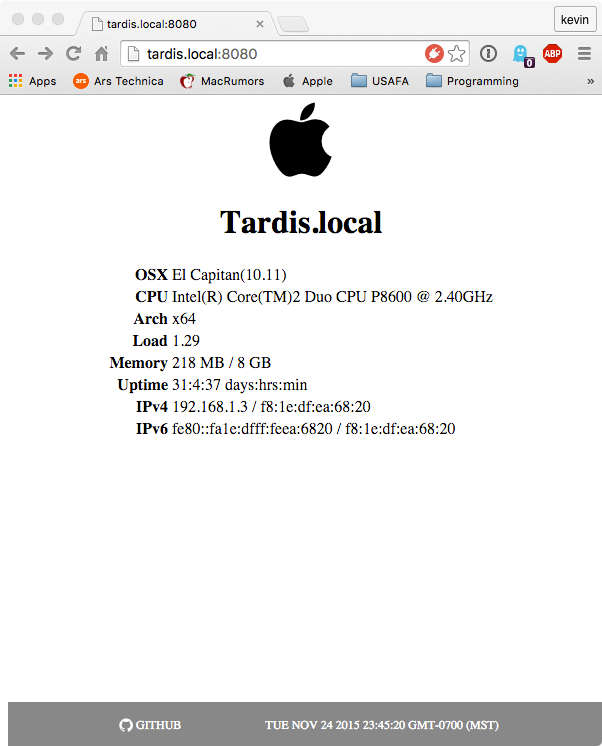
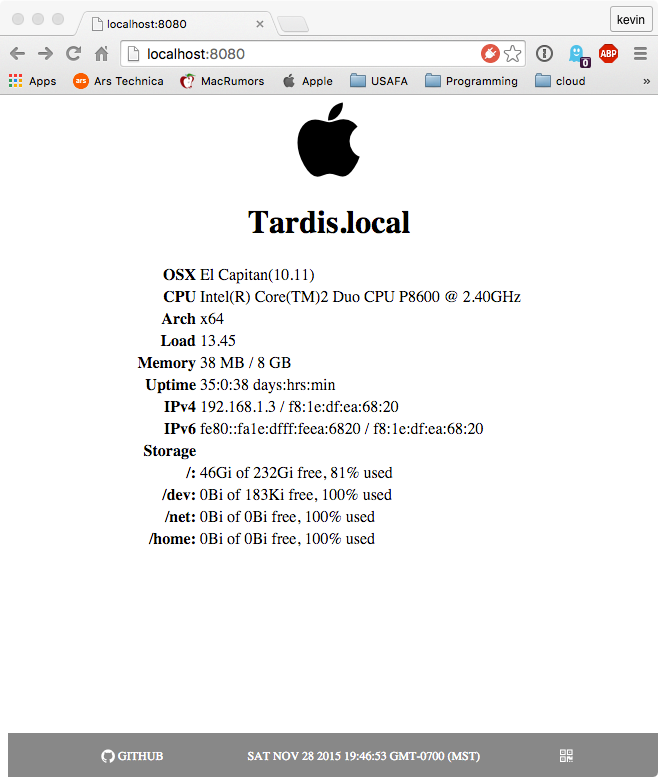
major update
rt, qr, storage add

diff --git a/bin/server.js b/bin/server.js
@@ -1,21 +1,18 @@
 #!/usr/bin/env node
 
-var debug = require('debug')('kevin:mon')
-//var chalk = require('chalk');
-var program = require('commander');
-var os = require('os');
-var http = require('http');                     // http-server
+var debug = require('debug')('kevin:mon')  // debugging
+//var chalk = require('chalk');            // colors
+var program = require('commander');        // CLI access
+var os = require('os');                    // OS access
+var http = require('http');                // http-server
 
-var sysinfo = require('../lib/sysinfo.js');
-var makePage = require('../lib/page.js');
-var realtime = require('../lib/realtime.js');
+var sysinfo = require('../lib/sysinfo.js');   // get system info
+var makePage = require('../lib/page.js');     // create web page
+var realtime = require('../lib/realtime.js'); // update web page via socket.io
+var qr = require('../lib/qr.js');             // draw QR image w/ network info
 
-// var spawn = require('child_process').exec;
-// var ls = spawn('ls -alh');
-
+// grab info from npm package
 var pck = require('../package.json');
-
-debug('argv: '+process.argv);
 
 program
 	.version(pck.version)
@@ -23,15 +20,14 @@ program
 	.usage(pck.name + ' [options]')
 	.option('-p, --port <port>','Http server port number, default: 8080',parseInt,8080)
 	.option('-r, --no-static','Do real-time webpage updates')
-// 	.option('-t, --test','test')
+// 	.option('-u, --update','update time for real-time, default: 1000 msec', parseInt, 1000)
 	.parse(process.argv);
-
-debug('!rt: '+ program.static);
+	
+// debug('argv: '+process.argv);
+// debug('!rt: '+ program.static);
 // debug('rt: ' + (program.realtime ? true : false) );
 // debug('test: '+ program.test);
-debug('port: '+ program.port);
-
-// program.port = 8080;
+debug('archeyjs ready on port: '+ program.port);
 
 // not sure real-time info is worth it on small RPi
 var rt = false;
@@ -39,21 +35,13 @@ if(!program.static){
 	rt = true;
 }
 
-// var disk = require('diskusage');
-//  
-// // get disk usage. Takes mount point as first parameter 
-// disk.check('/', function(err, info) {
-//     console.log(info.available);
-//     console.log(info.free);
-//     console.log(info.total);
-// });
-
 // Simple REST server
 server = http.createServer(function(req, res){
     var path = req.url; 
     debug( 'path: ' + path );
     
 	var info = sysinfo.sysinfo();
+	var qrimage = qr(info);
 	
 	if ( path == '/json'){
 		if (req.method == 'GET') {
@@ -69,6 +57,10 @@ server = http.createServer(function(req, res){
 			res.end();
 		}
 	}
+	else if ( path === '/qr' ){
+        res.writeHead(200, {'Content-Type': 'image/png'});
+        qrimage.pipe(res);
+    }
 	else {
 		// force users to / or /json
 		debug("Wrong path " + path)

diff --git a/lib/sysinfo.js b/lib/sysinfo.js
@@ -4,6 +4,18 @@ var os = require('os');
 var osxRelease = require('osx-release');
 var fs = require('fs');
 
+var disk = require('../lib/diskinfo.js');
+var diskinfo = {};
+
+
+disk.getStorage(function(err, drives) {
+	if(err){ debug('err: '+err); }
+      for (var key in drives) {
+//             console.log('Drive ' + key + ': ' + drives[key].available + ' / ' + drives[key].size + ' free, ' + drives[key].capacity + ' used');
+      	diskinfo[key] = { "available":drives[key].available, "size":drives[key].size, "capacity":drives[key].capacity };
+      }
+});
+
 function getIP(){
 	// Get ip info from interface e
 	function ip(e){
@@ -55,20 +67,11 @@ function bytesToSize(bytes) {
    return Math.round(bytes / Math.pow(1024, i), 2) + ' ' + sizes[i];
 };
 
-function formatLoad(){
-	var l = os.loadavg(); // 1, 5, 15 min avg
-// 	var load = [];
-// 	for( var i=0; i < l.length; i++){
-// 		load.push( l[i].toFixed(2) );
-// 	}
-// 	return load;
-	return l[0].toFixed(2);
-}
-
+// main function exported, returns json of system info
 exports.sysinfo = function(){
 	// system info
 	var sys = {'platform': os.platform(),
-				'load': formatLoad(),
+				'load': os.loadavg()[0].toFixed(2),
 				'release': os.release(),
 				'uptime': secondsToTime(), 
 				'free_memory': bytesToSize(os.freemem()),
@@ -77,6 +80,7 @@ exports.sysinfo = function(){
 				'arch': os.arch(),
 				'hostname':os.hostname(),
 				'network': getIP(),
+				'storage': diskinfo,
 				'timestamp': new Date()
 				};
 	
@@ -115,6 +119,7 @@ exports.sysinfo = function(){
 	return sys;
 };
 
+// used by real-time update to grab a smaller sub set of info that changes
 exports.simpleInfo = function(){
 	
 	// system info

diff --git a/lib/diskinfo.js b/lib/diskinfo.js
@@ -1,0 +1,47 @@
+// get host storage info
+
+var exec = require('child_process').exec;
+var os = require('os');
+var drives = {};
+
+exports.getStorage = function(callback) {
+// exports.getDrives = function() {
+	
+	switch (os.platform().toLowerCase()) {
+		case 'darwin':
+        case 'linux':
+			// Run command to get list of drives 
+			var oProcess = exec(
+				'df -Ph | awk "NR > 1"',
+				function (err, stdout, stderr) {
+					if (err) return callback(err, null);
+					var aLines = stdout.split('\n');
+					// For each line get drive info and add to array
+					for(var i = 0; i < aLines.length; i++) {					
+						var sLine = aLines[i];
+						
+						if (sLine != '') {
+							sLine = sLine.replace(/ +(?= )/g,'');
+							var aTokens = sLine.split(' ');
+							var len = aTokens.length;
+							drives[ aTokens[len-1] ] = {
+								size:		aTokens[len-5],
+								used:		aTokens[len-4],
+								available:	aTokens[len-3],
+								capacity:	aTokens[len-2],
+							};
+							
+						}
+					}
+					// Check if we have a callback
+					if (callback != null) {
+						callback(null, drives);
+					} 
+				}
+			);	
+			break;			
+		default:
+			console.log('Not supported, only OSX and Linux');
+    }
+
+}

diff --git a/lib/page.js b/lib/page.js
@@ -14,6 +14,10 @@ function table(info){
 	t += line('Uptime',info['uptime'],'up');
 	t += line('IPv4',info['network']['IPv4']['address']+' / '+info['network']['IPv4']['mac']);
 	t += line('IPv6',info['network']['IPv6']['address']+' / '+info['network']['IPv6']['mac']);
+	t += line('Storage','');
+	for (var key in info['storage']){
+		t += line(key + ':', info['storage'][key].available + ' of ' + info['storage'][key].size + ' free, ' + info['storage'][key].capacity + ' used');
+	}
 	t += '</table>';
 	return t;
 }
@@ -58,6 +62,7 @@ if (realtime) {
 	page += '<div class="footer">';
 	page += '<a href="https://github.com/walchko"> <i class="fa fa-github fa-lg"></i> Github</a> ';
 	page += '<a id="timestamp">' + info['timestamp'] + '</a>';
+	page += '<a href="qr"> <i class="fa fa-qrcode fa-lg"></i> </a>';
 	page += '</div>';
 	page +='</body></html>';
 	return page;

diff --git a/lib/qr.js b/lib/qr.js
@@ -6,9 +6,9 @@ module.exports = function(info){
 	var data = {};
 	
 	data.hostname = info['hostname'];
-	data.ipv4 = info['IPv4']['address'];
-	data.mac = info['IPv4']['mac'];
-	data.ipv6 = info['IPv6']['address'];
+	data.ipv4 = info['network']['IPv4']['address'];
+	data.mac = info['network']['IPv4']['mac'];
+	data.ipv6 = info['network']['IPv6']['address'];
 	
 	var img = qr.image(JSON.stringify(data));
 	

diff --git a/README.md b/README.md
@@ -28,6 +28,13 @@ Command line:
       -h, --help         output usage information
       -V, --version      output the version number
       -p, --port <port>  Http server port number
+      -r, --no-static    Do real-time webpage updates
+
+The `--no-static` option updates the web page in real-time with info that changes (i.e.,
+load, memory, and time stamp). This uses `socket.io` with seems to use a lot of resources
+to talk between the node server and the web page.
+
+The `--port` is the port used by the server.
 
 You can connect with a web browser at:
 
@@ -36,6 +43,13 @@ You can connect with a web browser at:
 Or get a json response back by:
 
     http://localhost:8080/json
+
+There is also a QR code icon in at the bottom, which will create a QR code of the hostname,
+IPv4, IPv6, and MAC address. You can also get to it by:
+
+    http://localhost:8080/qr
+
+![](./pics/qr.png)
 
 Which gives:
 
@@ -70,7 +84,11 @@ Which gives:
 
 ## Linux Setup
 
+TBD
+
 ## OSX Setup
+
+TBD
 
 # To Do
 
@@ -80,6 +98,7 @@ Which gives:
 
 # Change Log
 
+* 1.0.3 2015/11/28 new real-time, QR, and storage status
 * 1.0.2 2015/11/25 CLI fixes
 * 1.0.1 2015/11/25 Small linux fixes
 * 1.0.0 2015/11/24 Initiated
